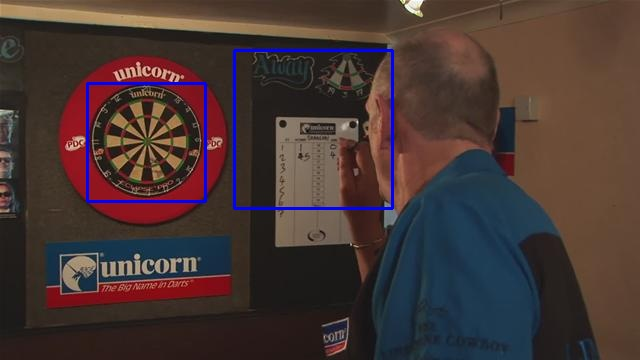
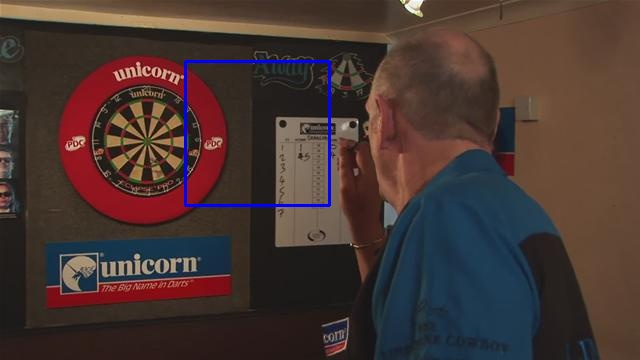
Change deduplicating from contains to overlapping boxes

Changed region(s): [[0.125, 0.1222, 0.625, 0.6111]]

diff --git a/Assignment/task3/task.cpp b/Assignment/task3/task.cpp
@@ -20,10 +20,6 @@ using namespace std;
 /** Global variables */
 CascadeClassifier cascade;
 
-//struct DartBoard {
-//    Point2f center;
-//    int radius;
-//};
 struct DartBoard {
     Rect bounding_box;
 };
@@ -41,7 +37,9 @@ class Detector {
         vector<Rect> viola_hits;
         vector<DartBoard> dartboards;
         void deduplicate_hits();
-        bool contains(Rect, Rect);
+        bool rectOverlap(Rect, Rect);
+        bool valueInRange(float, float, float);
+
     public:
         Mat image, overlay_image, detections_image;
         int read_image (char*);
@@ -377,52 +375,39 @@ void Detector::combineDectections() {
 void Detector::deduplicate_hits() {
     //Deep copy dartboards
     //Loop till clone is empty
-        //Loop through clone, find largest, remove.
-        //Loop through clone, find all that are smaller, remove and average them -> add to new set
+        //Loop through clone, get next box
+        //Loop through clone, find all that are overlapping, remove and average them -> add to new set
     //Use new deduplicated set
 
     vector<DartBoard>dartboards_clone = dartboards;
     vector<DartBoard>deduplicated_hits;
     DartBoard dartboard;
-    DartBoard largest;
+    DartBoard current;
 
     while (dartboards_clone.size() > 0) {
         float distance;
         float avx, avy, avwidth, avheight;
         int sum_duplicates = 1;
 
-        largest = dartboards_clone.back();
-        avx = largest.bounding_box.x;
-        avy = largest.bounding_box.y;
-        avwidth = largest.bounding_box.width;
-        avheight = largest.bounding_box.height;
+        current = dartboards_clone.back();
+        avx = current.bounding_box.x;
+        avy = current.bounding_box.y;
+        avwidth = current.bounding_box.width;
+        avheight = current.bounding_box.height;
         dartboards_clone.erase(dartboards_clone.end() -1);
 
         for(unsigned index = dartboards_clone.size(); index-- > 0;) {
 
             dartboard = dartboards_clone.at(index);
 
-            //if dis < dartboard radius, dartboard larger, av, remove
-            if (contains(dartboard.bounding_box, largest.bounding_box)) {
+            if (rectOverlap(current.bounding_box, dartboard.bounding_box)) {
                 sum_duplicates++;
                 avx += dartboard.bounding_box.x;
                 avy += dartboard.bounding_box.y;
                 avwidth += dartboard.bounding_box.width;
                 avheight += dartboard.bounding_box.height;
 
-                largest = dartboard;
-                dartboards_clone.erase(dartboards_clone.begin() + index);
-                continue;
-            }
-
-            //if dis < largest radius, largest larger, av  remove
-            if (contains(largest.bounding_box, dartboard.bounding_box)) {
-                sum_duplicates++;
-                avx += dartboard.bounding_box.x;
-                avy += dartboard.bounding_box.y;
-                avwidth += dartboard.bounding_box.width;
-                avheight += dartboard.bounding_box.height;
-
+                //current = dartboard;
                 dartboards_clone.erase(dartboards_clone.begin() + index);
                 continue;
             }
@@ -440,12 +425,16 @@ void Detector::deduplicate_hits() {
     return;
 }
 
-bool Detector::contains(Rect outer, Rect inner) {
-    if (outer.x <= inner.x && outer.y <= inner.y && (outer.x + outer.width) >= (inner.x + inner.width) && (outer.y + outer.height) >= (inner.y + inner.height)) {
-        return true;
-    }
+bool Detector::valueInRange(float value, float min, float max) {
+    return (value >= min) && (value <= max);
+}
 
-    return false;
+bool Detector::rectOverlap(Rect A, Rect B) {
+    bool xOverlap = valueInRange(A.x, B.x, B.x + B.width) || valueInRange(B.x, A.x, A.x + A.width);
+
+    bool yOverlap = valueInRange(A.y, B.y, B.y + B.height) || valueInRange(B.y, A.y, A.y + A.height);
+
+    return xOverlap && yOverlap;
 }
 
 int Detector::read_image (char* path) {
